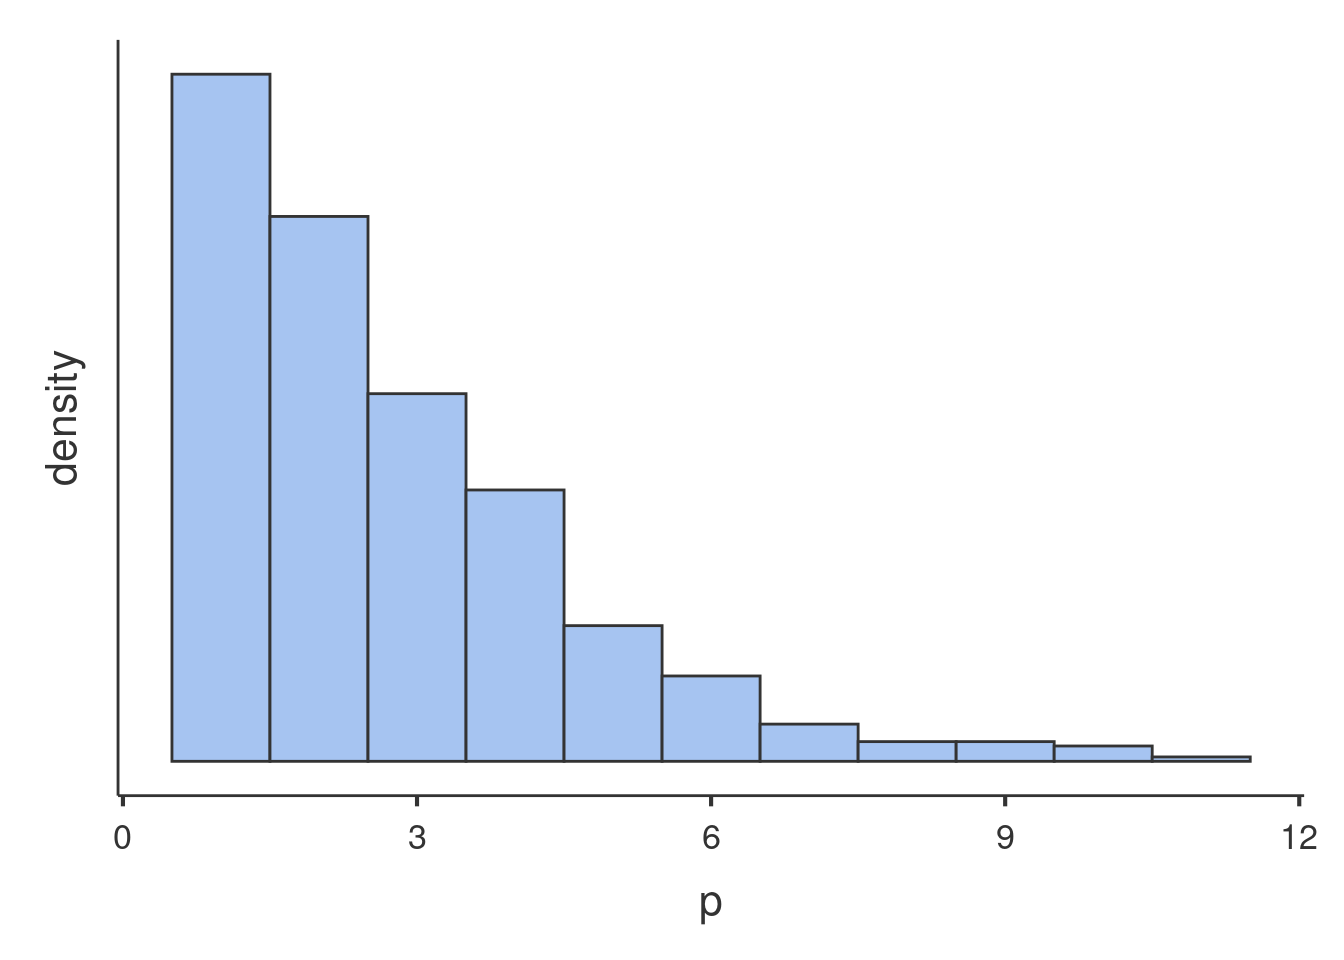
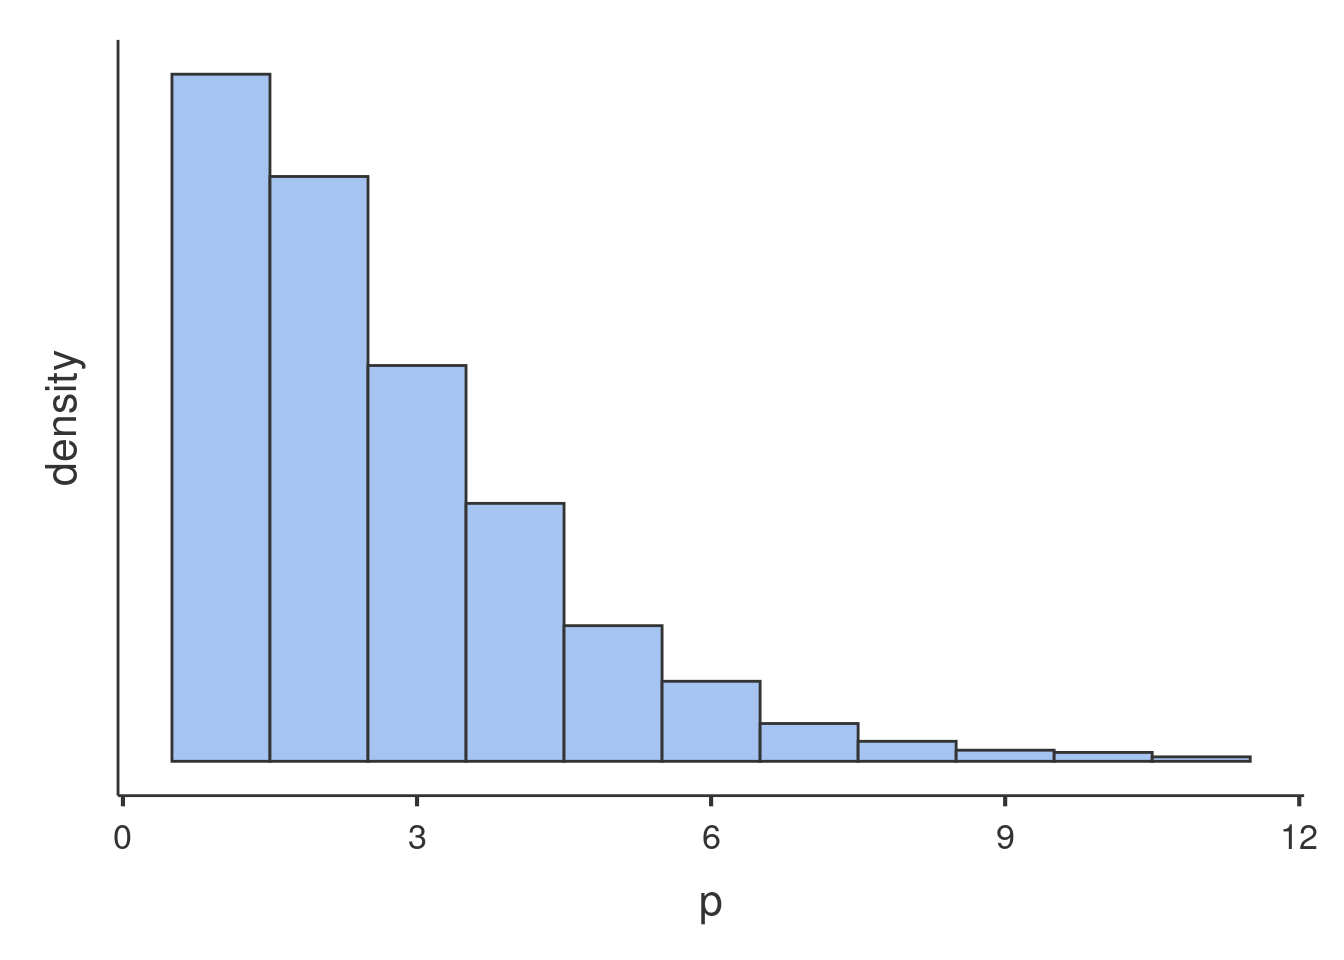
updates

diff --git a/glmmixed_example2.html b/glmmixed_example2.html
@@ -383,7 +383,7 @@ div.tocify {
 <p><img src="glmmixed_example2_files/figure-html/unnamed-chunk-2-1.png" width="672" /></p>
 <p>Glancing at the histogram makes it clear that the distribution is not normal, but it roughly resembles the Poisson distribution. Here is an example of Poisson distribution with equivalent mean.</p>
 <p><img src="glmmixed_example2_files/figure-html/unnamed-chunk-3-1.png" width="672" /></p>
-<p>We can see that the shape of our distribution is not qualitatively very different as compared with a theoretical Poisson distribution, so a Generalized Linear Model with Poisson distribition may work. However, we can check wheather our distribution is in line with the features of the Poisson dist by checking its mean and variance. The Poisson distribution has variance equal to the mean, in fact the simulated distribution in the histogram has <span class="math inline">\(\bar{x}=1.716\)</span> and <span class="math inline">\(s^2=1.693\)</span>. The <code>art</code> variable distribution has <span class="math inline">\(\bar{x}=1.693\)</span> and <span class="math inline">\(s^2=3.71\)</span>, with a ratio variance/mean of 2.191, which does not really qualify for Poisson dist. This looks like a case of <strong>overdispersion</strong>, <a href="http://bbolker.github.io/mixedmodels-misc/glmmFAQ.html#overdispersion">cf. here for details</a>. We will than consider a Negative Binomial model to account for possible overdispersion.</p>
+<p>We can see that the shape of our distribution is not qualitatively very different as compared with a theoretical Poisson distribution, so a Generalized Linear Model with Poisson distribition may work. However, we can check wheather our distribution is in line with the features of the Poisson dist by checking its mean and variance. The Poisson distribution has variance equal to the mean, in fact the simulated distribution in the histogram has <span class="math inline">\(\bar{x}=1.678\)</span> and <span class="math inline">\(s^2=1.71\)</span>. The <code>art</code> variable distribution has <span class="math inline">\(\bar{x}=1.693\)</span> and <span class="math inline">\(s^2=3.71\)</span>, with a ratio variance/mean of 2.191, which does not really qualify for Poisson dist. This looks like a case of <strong>overdispersion</strong>, <a href="http://bbolker.github.io/mixedmodels-misc/glmmFAQ.html#overdispersion">cf. here for details</a>. We will than consider a Negative Binomial model to account for possible overdispersion.</p>
 <p>An example of Negative Binomial distribution with equivalent mean and variance is here.</p>
 <p><img src="glmmixed_example2_files/figure-html/unnamed-chunk-4-1.png" width="672" /></p>
 <p>The second issue one needs to deal with is the structure of the data. We have seen that the students are not a random sample of students drawn independently one each other, but they are grouped by the program they are enrolled in. There are 83 programs, in each program there are on average 11 students. Because students in the same program may be more similar one each other than across programs, <code>programs</code> may cluster the scores of the dependent variable and create dependency in the data. To take dependency into the account, we will use a random intercepts model estimated with a Generalized Mixed Model.</p>

diff --git a/style.css b/style.css
@@ -21,6 +21,12 @@ h1 {
 
 }
 
+.section h1 {
+  padding-top: 155px !important; 
+  margin-top: -155px !important; 
+  
+}
+
 .section h2 {
   font-size: 20px;
   font-weight: bold;
